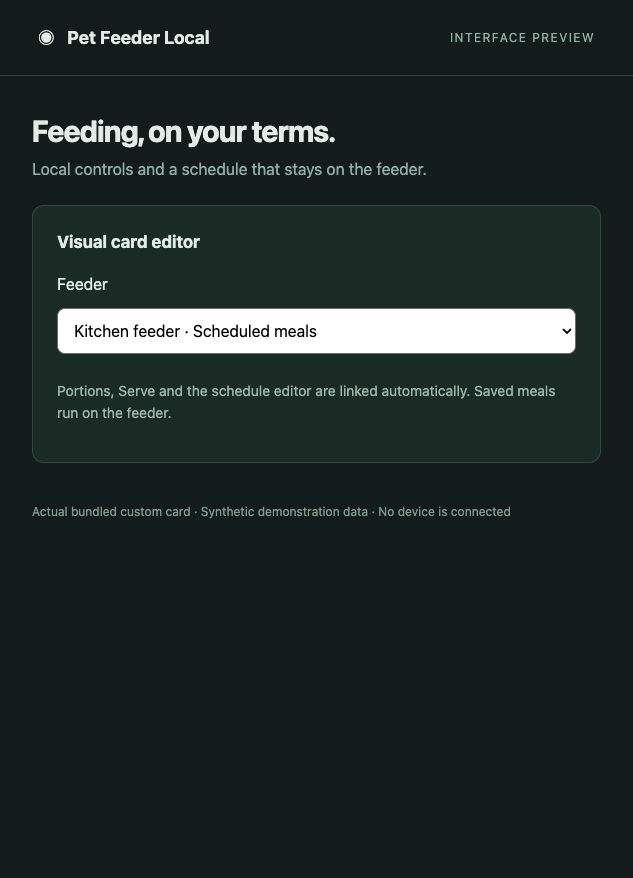
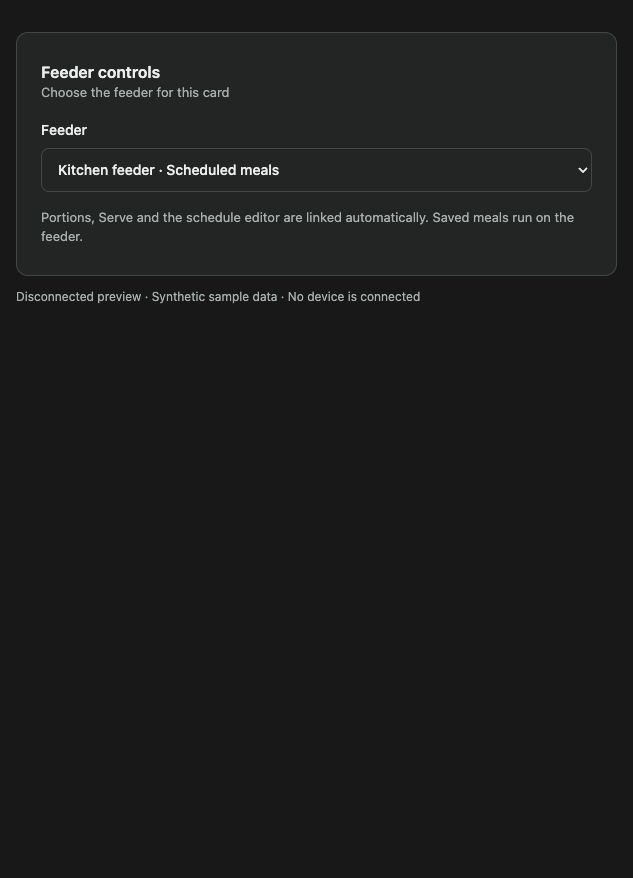
Redesign feeder card and visual editor for version 0.3.0

diff --git a/custom_components/pet_feeder_local/frontend/pet-feeder-local-card.js b/custom_components/pet_feeder_local/frontend/pet-feeder-local-card.js
@@ -1,20 +1,24 @@
 /** Local feeder controls. Editing a number never triggers a feeding command. */
 class PetFeederLocalCard extends HTMLElement {
   setConfig(config) {
-    if (!config.schedule_entity) {
-      throw new Error("Select a Pet Feeder Local schedule sensor");
-    }
+    if (!config.schedule_entity) throw new Error("Select a Pet Feeder Local schedule sensor");
     this.config = config;
     this.dirty = false;
     this.busy = false;
+    this.timeDrafts = new WeakMap();
     if (!this.shadowRoot) this.attachShadow({ mode: "open" });
   }
 
   set hass(hass) {
     this._hass = hass;
     const state = hass.states[this.config.schedule_entity];
-    if (!state || ["unavailable", "unknown"].includes(state.state)) {
-      if (!this.shadowRoot.querySelector("ha-card")) this.shadowRoot.innerHTML = '<ha-card style="padding:20px">Feeder unavailable. Check power and the integration connection.</ha-card>';
+    const available = state && !["unavailable", "unknown"].includes(state.state);
+    if (!available) {
+      if (!this.shadowRoot.querySelector("ha-card")) this.shadowRoot.innerHTML = '<ha-card style="padding:24px">Feeder unavailable. Check power and the integration connection.</ha-card>';
+      else {
+        const message = this.shadowRoot.querySelector("#availability");
+        if (message) { message.hidden = false; message.textContent = "Feeder unavailable. Check power and the integration connection."; }
+      }
       this.shadowRoot.querySelectorAll("button,input").forEach(node => node.disabled = true);
       return;
     }
@@ -22,18 +26,20 @@ class PetFeederLocalCard extends HTMLElement {
       portions_entity: this.config.portions_entity || state.attributes.portions_entity,
       serve_entity: this.config.serve_entity || state.attributes.serve_entity};
     if (!this.config.portions_entity || !this.config.serve_entity) {
-      this.shadowRoot.innerHTML = '<ha-card style="padding:20px">Waiting for feeder controls. This can take 30 seconds after setup.</ha-card>';
+      if (!this.shadowRoot.querySelector("#portions")) this.shadowRoot.innerHTML = '<ha-card style="padding:24px">Waiting for feeder controls. This can take 30 seconds after setup.</ha-card>';
       return;
     }
-    this.shadowRoot.querySelectorAll("input").forEach(node => node.disabled = false);
     if (!this.shadowRoot.querySelector("#portions") || (!this.dirty && !this.busy &&
         this.revision !== state.attributes.revision)) this.load();
+    const availability = this.shadowRoot.querySelector("#availability");
+    if (availability) availability.hidden = true;
     const input = this.shadowRoot.querySelector("#portions");
-    if (input && this.shadowRoot.activeElement !== input) {
+    if (input && this.shadowRoot.activeElement !== input && !this.busy) {
       input.value = hass.states[this.config.portions_entity]?.state || "1";
     }
+    this.shadowRoot.querySelectorAll("button,input").forEach(node => node.disabled = this.busy);
     const serve = this.shadowRoot.querySelector("#serve");
-    if (serve) serve.disabled = this.busy ||
+    if (serve) serve.disabled = this.busy || !input.checkValidity() ||
       ["unavailable", undefined].includes(hass.states[this.config.serve_entity]?.state);
     const add = this.shadowRoot.querySelector("#add");
     if (add) add.disabled = this.busy || this.meals.length >= 8;
@@ -56,45 +62,79 @@ class PetFeederLocalCard extends HTMLElement {
     return node;
   }
 
-  async action(callback) {
+  changed() {
+    this.dirty = true;
+    this.updateSummary();
+  }
+
+  updateSummary() {
+    const summary = this.shadowRoot.querySelector("#schedule-summary");
+    if (!summary) return;
+    const enabled = this.meals.filter(meal => meal.enabled).length;
+    const total = this.meals.length;
+    summary.textContent = `${enabled} enabled · ${total} ${total === 1 ? "meal" : "meals"}${this.dirty ? " · Unsaved changes" : ""}`;
+  }
+
+  async action(callback, success) {
     if (this.busy) return;
     this.busy = true;
-    this.shadowRoot.querySelectorAll("button").forEach(button => button.disabled = true);
+    this.shadowRoot.querySelectorAll("button,input").forEach(node => node.disabled = true);
     const message = this.shadowRoot.querySelector("#message");
     message.textContent = "Working…";
     try {
       await callback();
-      message.textContent = "Done";
+      message.textContent = success;
     } catch (error) {
       message.textContent = error.message || String(error);
     } finally {
       this.busy = false;
-      this.shadowRoot.querySelectorAll("button").forEach(button => button.disabled = false);
       this.hass = this._hass;
     }
   }
 
   render() {
     this.shadowRoot.innerHTML = `<style>
-      ha-card{padding:20px;display:block}h2{margin:0 0 16px;font-size:20px}
-      h3{margin:24px 0 12px;font-size:17px}label{display:inline-flex;align-items:center;gap:6px}
-      input,button{font:inherit;color:var(--primary-text-color);background:var(--card-background-color);border:1px solid var(--divider-color);border-radius:6px;padding:8px}
-      button{cursor:pointer}button:disabled{opacity:.5;cursor:default}.primary{background:var(--primary-color);color:var(--text-primary-color,#fff)}
-      .controls,.fields,.actions,.days{display:flex;flex-wrap:wrap;align-items:center;gap:10px}
-      .meal{padding:14px 0;border-top:1px solid var(--divider-color)}.days{margin-top:12px;gap:8px}
-      input[type=number]{width:54px}input[type=checkbox]{accent-color:var(--primary-color)}
-      .actions{margin-top:16px}p{color:var(--secondary-text-color);line-height:1.5;font-size:14px}
-      #message,#conflict{overflow-wrap:anywhere}#conflict{color:var(--warning-color)}
-    </style><ha-card><h2>Pet Feeder Local</h2>
-      <div class="controls"><label>Portions <input id="portions" type="number" min="1" max="10" step="1" value="1"></label>
-      <button id="serve" class="primary">Serve</button></div>
-      <h3>Feeding schedule</h3><div id="meals"></div>
+      :host{display:block;--pfl-line:var(--divider-color,rgba(127,127,127,.24));--pfl-muted:var(--secondary-text-color,#656d6b);--pfl-raised:var(--secondary-background-color,var(--card-background-color));color:var(--primary-text-color)}
+      *{box-sizing:border-box}ha-card{display:block;overflow:hidden}h2,h3,p{margin:0}h2{font-size:20px;font-weight:600;line-height:1.3}h3{font-size:17px;font-weight:600;line-height:1.4}
+      .header{display:flex;align-items:center;gap:12px;padding:20px 24px;border-bottom:1px solid var(--pfl-line)}.brand-mark{width:40px;height:40px;flex:none}.subtitle,.summary,.help{font-size:13px;line-height:1.5;color:var(--pfl-muted)}.subtitle{margin-top:2px}
+      .content{padding:24px;display:grid;gap:28px}.section-heading{display:flex;justify-content:space-between;align-items:baseline;gap:12px;flex-wrap:wrap}.summary{font-variant-numeric:tabular-nums}.manual{display:flex;align-items:end;gap:12px;flex-wrap:wrap;margin-top:16px}
+      label.field{display:grid;gap:6px;font-size:13px;font-weight:500}.manual .field{width:112px}input,button{font:inherit;color:var(--primary-text-color);border:1px solid var(--pfl-line);border-radius:8px;background:var(--card-background-color);min-height:44px;padding:8px 12px}input[type=number]{width:100%;font-variant-numeric:tabular-nums}input[type=time]{width:100%;font-variant-numeric:tabular-nums}
+      button{cursor:pointer;font-weight:500}button:hover:not(:disabled){background:var(--pfl-raised)}button:disabled,input:disabled{opacity:.5;cursor:default}.primary{background:var(--primary-color);border-color:var(--primary-color);color:var(--text-primary-color,#fff)}.primary:hover:not(:disabled){background:var(--primary-color);filter:brightness(.94)}
+      button:focus-visible,input:focus-visible{outline:2px solid var(--primary-color);outline-offset:2px}.schedule{border-top:1px solid var(--pfl-line);padding-top:24px}.meals{display:grid;gap:12px;margin-top:16px}.meal{border:1px solid var(--pfl-line);border-radius:12px;padding:16px}.meal-head{display:flex;justify-content:space-between;align-items:center;gap:8px}.enabled{display:inline-flex;align-items:center;gap:8px;font-weight:600;min-height:44px}.enabled input{width:18px;height:18px;min-height:0;margin:0;padding:0;accent-color:var(--primary-color)}
+      .meal-title{display:flex;align-items:center;gap:12px;flex-wrap:wrap}.meal-title strong{font-size:15px;font-weight:600}.enabled{font-size:13px;font-weight:400;color:var(--pfl-muted)}.remove{background:transparent;border-color:transparent;color:var(--pfl-muted)}.fields{display:grid;grid-template-columns:minmax(0,1fr) minmax(88px,.65fr);gap:12px;margin-top:8px}.days{padding:0;border:0;margin:16px 0 0;min-width:0}.days legend{font-size:13px;color:var(--pfl-muted);padding:0;margin-bottom:8px}.day-list{display:flex;flex-wrap:wrap;gap:8px}.day{position:relative;display:inline-flex;align-items:center;justify-content:center;min-width:44px;min-height:44px;border:1px solid var(--pfl-line);border-radius:8px;color:var(--pfl-muted);font-size:13px;cursor:pointer}.day input{position:absolute;inset:0;width:100%;height:100%;margin:0;opacity:0;cursor:pointer}.day:has(input:checked)::before{content:"✓";margin-right:4px;font-weight:600}.day:has(input:checked){background:var(--pfl-raised);border-color:var(--primary-color);color:var(--primary-text-color)}.day:has(input:focus-visible){outline:2px solid var(--primary-color);outline-offset:2px}
+      .actions{display:flex;flex-wrap:wrap;gap:8px;margin-top:16px}.help{margin-top:16px}.notice{border-left:3px solid var(--warning-color,var(--primary-color));padding:8px 12px;line-height:1.5;overflow-wrap:anywhere}.notice[hidden]{display:none}#message{font-size:13px;line-height:1.5;color:var(--pfl-muted);overflow-wrap:anywhere}#message:empty{display:none}
+      @media(max-width:360px){.header{padding:16px}.content{padding:16px;gap:24px}.meal{padding:12px}.fields{grid-template-columns:minmax(0,1fr) minmax(80px,.65fr)}.day-list{gap:4px}}
+    </style><ha-card>
+      <header class="header"><svg class="brand-mark" viewBox="0 0 512 512" aria-hidden="true">
+  <defs>
+    <linearGradient id="house" x1="0" y1="0" x2="1" y2="1"><stop stop-color="#298f80"/><stop offset="1" stop-color="#21796f"/></linearGradient>
+    <linearGradient id="bowl" x1="0" y1="0" x2="0" y2="1"><stop stop-color="#88dfb9"/><stop offset="1" stop-color="#4bb18e"/></linearGradient>
+  </defs>
+  <path d="M58 228 236 76a31 31 0 0 1 40 0l178 152" fill="none" stroke="url(#house)" stroke-width="38" stroke-linecap="round" stroke-linejoin="round"/>
+  <path d="M108 227v170c0 26 21 47 47 47h202c26 0 47-21 47-47V227" fill="none" stroke="url(#house)" stroke-width="38" stroke-linecap="round" stroke-linejoin="round"/>
+  <rect x="166" y="175" width="180" height="192" rx="43" fill="#237b6e"/>
+  <path d="M201 197h110" stroke="#a8e9cd" stroke-width="10" stroke-linecap="round"/>
+  <circle cx="256" cy="260" r="39" fill="#dcf5e7"/>
+  <circle cx="256" cy="260" r="25" fill="#124a46"/>
+  <circle cx="265" cy="251" r="7" fill="#85dbb7"/>
+  <path d="M223 328h66v37h-66z" fill="#124a46"/>
+  <path d="M147 363h218l-17 52a31 31 0 0 1-30 21H194a31 31 0 0 1-30-21z" fill="url(#bowl)"/>
+  <path d="M145 363h222" stroke="#ddf9e8" stroke-width="14" stroke-linecap="round"/>
+  <circle cx="380" cy="136" r="15" fill="#f5b961"/>
+</svg><div><h2>Pet Feeder Local</h2><p class="subtitle">Local feeding controls</p></div></header>
+      <div class="content"><p id="availability" class="notice" role="status" hidden></p>
+      <section aria-labelledby="serve-title"><h3 id="serve-title">Serve now</h3><div class="manual"><label class="field">Portions<input id="portions" type="number" min="1" max="10" step="1" value="1" required aria-describedby="portion-help"></label><button id="serve" class="primary">Serve</button></div><p id="portion-help" class="help">Choose 1–10 portions, then select Serve</p></section>
+      <section class="schedule" aria-labelledby="schedule-title"><div class="section-heading"><h3 id="schedule-title">Feeding schedule</h3><span id="schedule-summary" class="summary"></span></div><div id="meals" class="meals"></div>
       <div class="actions"><button id="add">Add meal</button><button id="save" class="primary">Save schedule</button><button id="reload">Reload</button></div>
-      <p>The feeder runs saved meals itself. Home Assistant does not need to stay online.</p>
-      <p id="conflict" hidden>The device schedule changed. Reload before saving.</p>
-      <p id="message" role="status"></p></ha-card>`;
+      <p class="help">The feeder runs saved meals itself. Home Assistant does not need to stay online.</p>
+      <p id="conflict" class="notice" role="status" hidden>The device schedule changed. Reload before saving.</p></section>
+      <p id="message" role="status" aria-live="polite"></p></div></ha-card>`;
     const root = this.shadowRoot;
     root.querySelector("#portions").value = this._hass.states[this.config.portions_entity]?.state || "1";
+    root.querySelector("#portions").oninput = () => {
+      root.querySelector("#serve").disabled = !root.querySelector("#portions").checkValidity() || this.busy ||
+        ["unavailable", undefined].includes(this._hass.states[this.config.serve_entity]?.state);
+    };
     root.querySelector("#portions").onchange = event => {
       const value = Number(event.target.value);
       if (!Number.isInteger(value) || value < 1 || value > 10) {
@@ -102,58 +142,80 @@ class PetFeederLocalCard extends HTMLElement {
       }
       this.action(() => this._hass.callService("number", "set_value", {
         entity_id: this.config.portions_entity, value,
-      }));
+      }), "Portion selection sent to Home Assistant");
     };
-    root.querySelector("#serve").onclick = () => this.action(() =>
-      this._hass.callService("button", "press", { entity_id: this.config.serve_entity }));
-    root.querySelector("#reload").onclick = () => this.load();
+    root.querySelector("#serve").onclick = () => {
+      if (!root.querySelector("#portions").reportValidity()) return;
+      this.action(() => this._hass.callService("button", "press", { entity_id: this.config.serve_entity }),
+      "Serve request sent to Home Assistant");
+    };
+    root.querySelector("#reload").onclick = () => {
+      if (this.dirty && !confirm("Discard unsaved schedule changes and reload?")) return;
+      this.load();
+    };
     root.querySelector("#add").onclick = () => {
       if (this.meals.length >= 8) return;
       this.meals.push({weekdays:127,hour:12,minute:0,portions:1,enabled:false});
-      this.dirty = true; this.render();
+      this.changed(); this.render();
     };
-    root.querySelector("#save").onclick = () => this.action(async () => {
+    root.querySelector("#save").onclick = () => {
       for (const input of root.querySelectorAll("#meals input")) {
         if (!input.checkValidity()) { input.reportValidity(); return; }
       }
-      await this._hass.callService("pet_feeder_local", "set_schedule", {
-        config_entry_id: this._hass.states[this.config.schedule_entity].attributes.config_entry_id,
-        expected_revision: this.revision, meals: this.meals.map(meal => ({ ...meal })),
-      });
-      this.dirty = false;
-    });
+      this.action(async () => {
+        await this._hass.callService("pet_feeder_local", "set_schedule", {
+          config_entry_id: this._hass.states[this.config.schedule_entity].attributes.config_entry_id,
+          expected_revision: this.revision, meals: this.meals.map(meal => ({ ...meal })),
+        });
+        this.dirty = false;
+        this.updateSummary();
+      }, "Schedule request sent to Home Assistant");
+    };
     this.meals.forEach((meal, index) => {
       const row = this.element("div", undefined, "meal");
-      const fields = this.element("div", undefined, "fields");
+      const head = this.element("div", undefined, "meal-head");
       const enabled = this.element("input"); enabled.type = "checkbox"; enabled.checked = meal.enabled;
-      enabled.onchange = () => { meal.enabled = enabled.checked; this.dirty = true; };
-      const label = this.element("label", `Meal ${index + 1}`); label.prepend(enabled); fields.append(label);
+      enabled.onchange = () => { meal.enabled = enabled.checked; this.changed(); };
+      const title = this.element("strong", `Meal ${index + 1}`);
+      const label = this.element("label", "Enabled", "enabled"); label.prepend(enabled);
+      const heading = this.element("div", undefined, "meal-title"); heading.append(title, label); head.append(heading);
+      const remove = this.element("button", "Remove", "remove");
+      remove.setAttribute("aria-label", `Remove meal ${index + 1}`);
+      remove.onclick = () => { this.meals.splice(index,1); this.changed(); this.render(); };
+      head.append(remove); row.append(head);
+      const fields = this.element("div", undefined, "fields");
       const time = this.element("input"); time.type = "time"; time.required = true;
-      time.value = `${String(meal.hour).padStart(2,"0")}:${String(meal.minute).padStart(2,"0")}`;
+      time.value = this.timeDrafts.has(meal) ? this.timeDrafts.get(meal) : `${String(meal.hour).padStart(2,"0")}:${String(meal.minute).padStart(2,"0")}`;
       time.setAttribute("aria-label", `Meal ${index + 1} time`);
       time.onchange = () => {
-        if (!time.value) return;
-        [meal.hour,meal.minute] = time.value.split(":").map(Number); this.dirty = true;
+        this.timeDrafts.set(meal, time.value);
+        if (time.value) [meal.hour,meal.minute] = time.value.split(":").map(Number);
+        this.changed();
       };
       const portions = this.element("input"); portions.type = "number"; portions.min = "1";
       portions.max = "10"; portions.step = "1"; portions.required = true; portions.value = meal.portions;
       portions.setAttribute("aria-label", `Meal ${index + 1} portions`);
-      portions.onchange = () => { meal.portions = Number(portions.value); this.dirty = true; };
-      const remove = this.element("button", "Remove");
-      remove.onclick = () => { this.meals.splice(index,1); this.dirty = true; this.render(); };
-      fields.append(time, portions, remove); row.append(fields);
-      const days = this.element("div", undefined, "days");
+      portions.onchange = () => { meal.portions = Number(portions.value); this.changed(); };
+      const timeLabel = this.element("label", "Time", "field"); timeLabel.append(time);
+      const portionsLabel = this.element("label", "Portions", "field"); portionsLabel.append(portions);
+      fields.append(timeLabel, portionsLabel); row.append(fields);
+      const days = this.element("fieldset", undefined, "days");
+      days.append(this.element("legend", "Days"));
+      const dayList = this.element("div", undefined, "day-list");
       ["Sun","Mon","Tue","Wed","Thu","Fri","Sat"].forEach((name, bit) => {
         const check = this.element("input"); check.type = "checkbox"; check.checked = !!(meal.weekdays & (1 << bit));
+        check.setAttribute("aria-label", `Meal ${index + 1} ${name}`);
         check.onchange = () => {
           meal.weekdays = check.checked ? meal.weekdays | (1 << bit) : meal.weekdays & ~(1 << bit);
-          this.dirty = true;
+          this.changed();
         };
-        const day = this.element("label", name); day.prepend(check); days.append(day);
+        const day = this.element("label", name, "day"); day.prepend(check); dayList.append(day);
       });
-      row.append(days); root.querySelector("#meals").append(row);
+      days.append(dayList); row.append(days); root.querySelector("#meals").append(row);
     });
+    this.updateSummary();
     root.querySelector("#add").disabled = this.meals.length >= 8;
+    this.hass = this._hass;
   }
 
   static getConfigElement() { return document.createElement("pet-feeder-local-card-editor"); }
@@ -171,10 +233,23 @@ class PetFeederLocalCardEditor extends HTMLElement {
   render() {
     if (!this.config || !this._hass) return;
     this.replaceChildren();
-    const label = document.createElement("label");
-    label.textContent = "Feeder ";
+    const style = document.createElement("style");
+    style.textContent = `
+      pet-feeder-local-card-editor .pfl-editor{color:var(--primary-text-color);font-family:inherit;display:grid;gap:16px;padding:4px 0}
+      pet-feeder-local-card-editor .pfl-editor h3,pet-feeder-local-card-editor .pfl-editor p{margin:0}
+      pet-feeder-local-card-editor .pfl-editor h3{font-size:16px;line-height:1.4;font-weight:600}
+      pet-feeder-local-card-editor .pfl-editor p{font-size:13px;line-height:1.5;color:var(--secondary-text-color)}
+      pet-feeder-local-card-editor .pfl-editor label{display:grid;gap:8px;font-size:14px;font-weight:500}
+      pet-feeder-local-card-editor .pfl-editor select{box-sizing:border-box;width:100%;min-height:44px;padding:8px 12px;font:inherit;color:var(--primary-text-color);background:var(--card-background-color);border:1px solid var(--divider-color);border-radius:8px}
+      pet-feeder-local-card-editor .pfl-editor select:focus-visible{outline:2px solid var(--primary-color);outline-offset:2px}
+    `;
+    const panel = document.createElement("div"); panel.className = "pfl-editor";
+    const heading = document.createElement("div");
+    const title = document.createElement("h3"); title.textContent = "Feeder controls";
+    const description = document.createElement("p"); description.textContent = "Choose the feeder for this card";
+    heading.append(title, description);
+    const label = document.createElement("label"); label.textContent = "Feeder";
     const select = document.createElement("select");
-    select.style.cssText = "font:inherit;padding:12px;width:100%;margin:12px 0;border-radius:8px";
     const blank = document.createElement("option"); blank.textContent = "Choose a feeder"; blank.value = ""; select.append(blank);
     Object.entries(this._hass.states).filter(([id, state]) => state.attributes?.integration === "pet_feeder_local" || id === this.config.schedule_entity)
       .forEach(([id,state]) => {const option = document.createElement("option"); option.value=id; option.textContent=state.attributes?.friendly_name || id; select.append(option);});
@@ -183,8 +258,9 @@ class PetFeederLocalCardEditor extends HTMLElement {
       this.config = {type: "custom:pet-feeder-local-card", schedule_entity: select.value};
       this.dispatchEvent(new CustomEvent("config-changed", {detail:{config:this.config},bubbles:true,composed:true}));
     };
-    label.append(select); this.append(label);
-    const help = document.createElement("p"); help.textContent="Portions, Serve and the schedule editor are linked automatically. Saved meals run on the feeder."; this.append(help);
+    label.append(select);
+    const help = document.createElement("p"); help.textContent="Portions, Serve and the schedule editor are linked automatically. Saved meals run on the feeder.";
+    panel.append(heading, label, help); this.append(style, panel);
   }
 }
 if (!customElements.get("pet-feeder-local-card-editor")) customElements.define("pet-feeder-local-card-editor", PetFeederLocalCardEditor);

diff --git a/tests/test_lifecycle.py b/tests/test_lifecycle.py
@@ -29,7 +29,7 @@ async def test_setup_entities_card_and_unload(hass,entry,client):
     assert {e.domain for e in entities}=={'number','button','sensor','binary_sensor','calendar','camera'}
     assert all(e.unique_id.startswith(INFO['id']) for e in entities)
     assert hass.services.has_service('pet_feeder_local','set_schedule')
-    assert '/pet_feeder_local/frontend/pet-feeder-local-card.js?v=0.2.0' in hass.data['frontend_extra_module_url'].urls
+    assert '/pet_feeder_local/frontend/pet-feeder-local-card.js?v=0.3.0' in hass.data['frontend_extra_module_url'].urls
     client.async_feed.assert_not_awaited()
     client.async_set_schedule.assert_not_awaited()
     assert coordinator.schedule_attributes()['integration']=='pet_feeder_local'

diff --git a/custom_components/pet_feeder_local/__init__.py b/custom_components/pet_feeder_local/__init__.py
@@ -33,7 +33,7 @@ async def async_setup(hass: HomeAssistant, config: ConfigType) -> bool:
     await hass.http.async_register_static_paths([StaticPathConfig(
         "/pet_feeder_local/frontend", str(Path(__file__).parent / "frontend"), True
     )])
-    frontend.add_extra_js_url(hass, "/pet_feeder_local/frontend/pet-feeder-local-card.js?v=0.2.0")
+    frontend.add_extra_js_url(hass, "/pet_feeder_local/frontend/pet-feeder-local-card.js?v=0.3.0")
 
     async def set_schedule(call: ServiceCall) -> None:
         target = hass.config_entries.async_get_entry(call.data["config_entry_id"])

diff --git a/docs/interface-design.md b/docs/interface-design.md
@@ -1,0 +1,27 @@
+# Interface design
+
+The 0.3 interface is designed for an owner setting up and using one local feeder. It retains the original product icons, uses system typography, neutral surfaces and one restrained accent, and keeps action labels specific. No remote fonts, analytics or UI service is required.
+
+The Mac installer uses SwiftUI and AppKit. The portable wizard uses semantic HTML with adaptive light/dark colors. The Home Assistant card uses Web Components and the current HA theme. These are native surfaces for each host; they do not share an additional UI framework.
+
+## Interaction boundaries
+
+- Compatibility checks name one address and do not imply a network scan.
+- Installation remains gated by review and confirmation. Private credentials stay masked and private backup instructions remain visible.
+- Choosing portions does not feed. Serve is a separate action and requires a valid selection.
+- Enabled schedule rows are counted separately from all saved rows. New rows remain disabled. Unsaved changes and revision conflicts are distinct states.
+- A service request or MCU acknowledgement is not proof of physical food delivery. No preview status represents a connected device.
+
+## Verification
+
+Disconnected fixtures cover Mac connection/review, portable connection/review, light/dark appearance, HA card and card editor, empty portions, unsaved edits and narrow layouts at 320 CSS pixels (305 content pixels with a desktop scrollbar). The portable and HA previews have no horizontal page overflow at that width; weekday targets and card buttons are at least 44 pixels tall. Installer boundary tests and card interaction tests run separately. Public screenshots contain synthetic data. Hardware, battery and power-loss verification is unchanged by this UI release; see validation.md.
+
+## Screenshots
+
+![Narrow dark card with unsaved, disabled sample meals](images/controls-mobile-dark.jpg)
+
+## Design references
+
+The review and redesign workflow was adapted from [Unslop](https://github.com/heydamir/unslop) by Damir Sokolovsky, licensed under [CC BY 4.0](https://creativecommons.org/licenses/by/4.0/). Changes here adapt its spacing, color, icon, copy, type, layout, detail and motion review principles to native installer and HA surfaces. Original project source licensing is unchanged.
+
+[UI SDK](https://ui-sdk.dev/docs) provides useful behavior primitives and Web Component support, but remains beta. It is not a native SwiftUI toolkit. These controls use native buttons, fields, labels and checkboxes; no beta runtime dependency is needed for the current scope.

diff --git a/README.md b/README.md
@@ -13,7 +13,7 @@ Choose portions, press **Serve**, edit the feeder's own weekly meals, and view i
 
 ![Portions, a separate Serve button and the weekly meal editor](docs/images/controls.jpg)
 
-*Preview of the actual bundled card using synthetic demonstration data; no home-camera image or household schedule is published.*
+*Preview of the actual 0.3 bundled card using synthetic sample data; no home-camera image or household schedule is published. The card follows your HA theme and adapts to narrow screens. [Interface design and verification](docs/interface-design.md).*
 
 ![The visual card editor links the controls from one feeder selection](docs/images/editor.jpg)
 
@@ -35,7 +35,7 @@ For a manual installation, copy the entire `custom_components/pet_feeder_local` 
 
 Changing **Portions** only selects an integer from 1 to 10. **Serve** is the separate action that sends one feeding request. A timeout means the result may be unknown: the integration does not repeat the request. Check the feeder before serving again. An MCU acknowledgement confirms the protocol exchange, not the mass of food in the bowl.
 
-The editor supports up to eight MCU meal rows, including disabled rows. Unsaved edits remain in the browser. Saving replaces the complete table with a fresh revision check and exact readback; if another client changed it, reload before editing again. The calendar entity displays enabled weekly meals; edit them in the card. Saved meals execute on the MCU with valid power and clock, including while HA or Wi-Fi is offline.
+The editor supports up to eight MCU meal rows, including disabled rows. The summary counts enabled meals separately and marks unsaved changes. Reload asks before discarding unsaved edits. Unsaved edits remain in the browser. Saving replaces the complete table with a fresh revision check and exact readback; if another client changed it, reload before editing again. The calendar entity displays enabled weekly meals; edit them in the card. Saved meals execute on the MCU with valid power and clock, including while HA or Wi-Fi is offline.
 
 HA polls status and schedules every **30 seconds**. While connected, it synchronizes the MCU's wall clock to HA's configured timezone every **five minutes**. HA does not create feeding automations. A timezone or DST change cannot reach a disconnected MCU; recovery after complete power loss remains unverified.
 

diff --git a/CHANGELOG.md b/CHANGELOG.md
@@ -1,5 +1,12 @@
 # Changelog
 
+## 0.3.0
+
+- Redesign the dashboard card and visual editor around the original integration icon, neutral HA theme surfaces, clear sections and responsive controls.
+- Distinguish enabled meals from saved rows and show unsaved edits. Keep weekday selections visible with checkbox semantics and at least 44 px touch targets.
+- Require a valid portion selection before Serve, preserve incomplete time drafts when adding/removing rows, and confirm before discarding unsaved schedule changes.
+- Preserve service payloads, entity identities, revision protection and disabled-by-default new meals. No firmware, camera or scheduling protocol changes.
+
 ## 0.2.1
 
 - Add an original integration icon featuring the local feeder inside a home. The native Mac installer uses a complementary installer icon.
